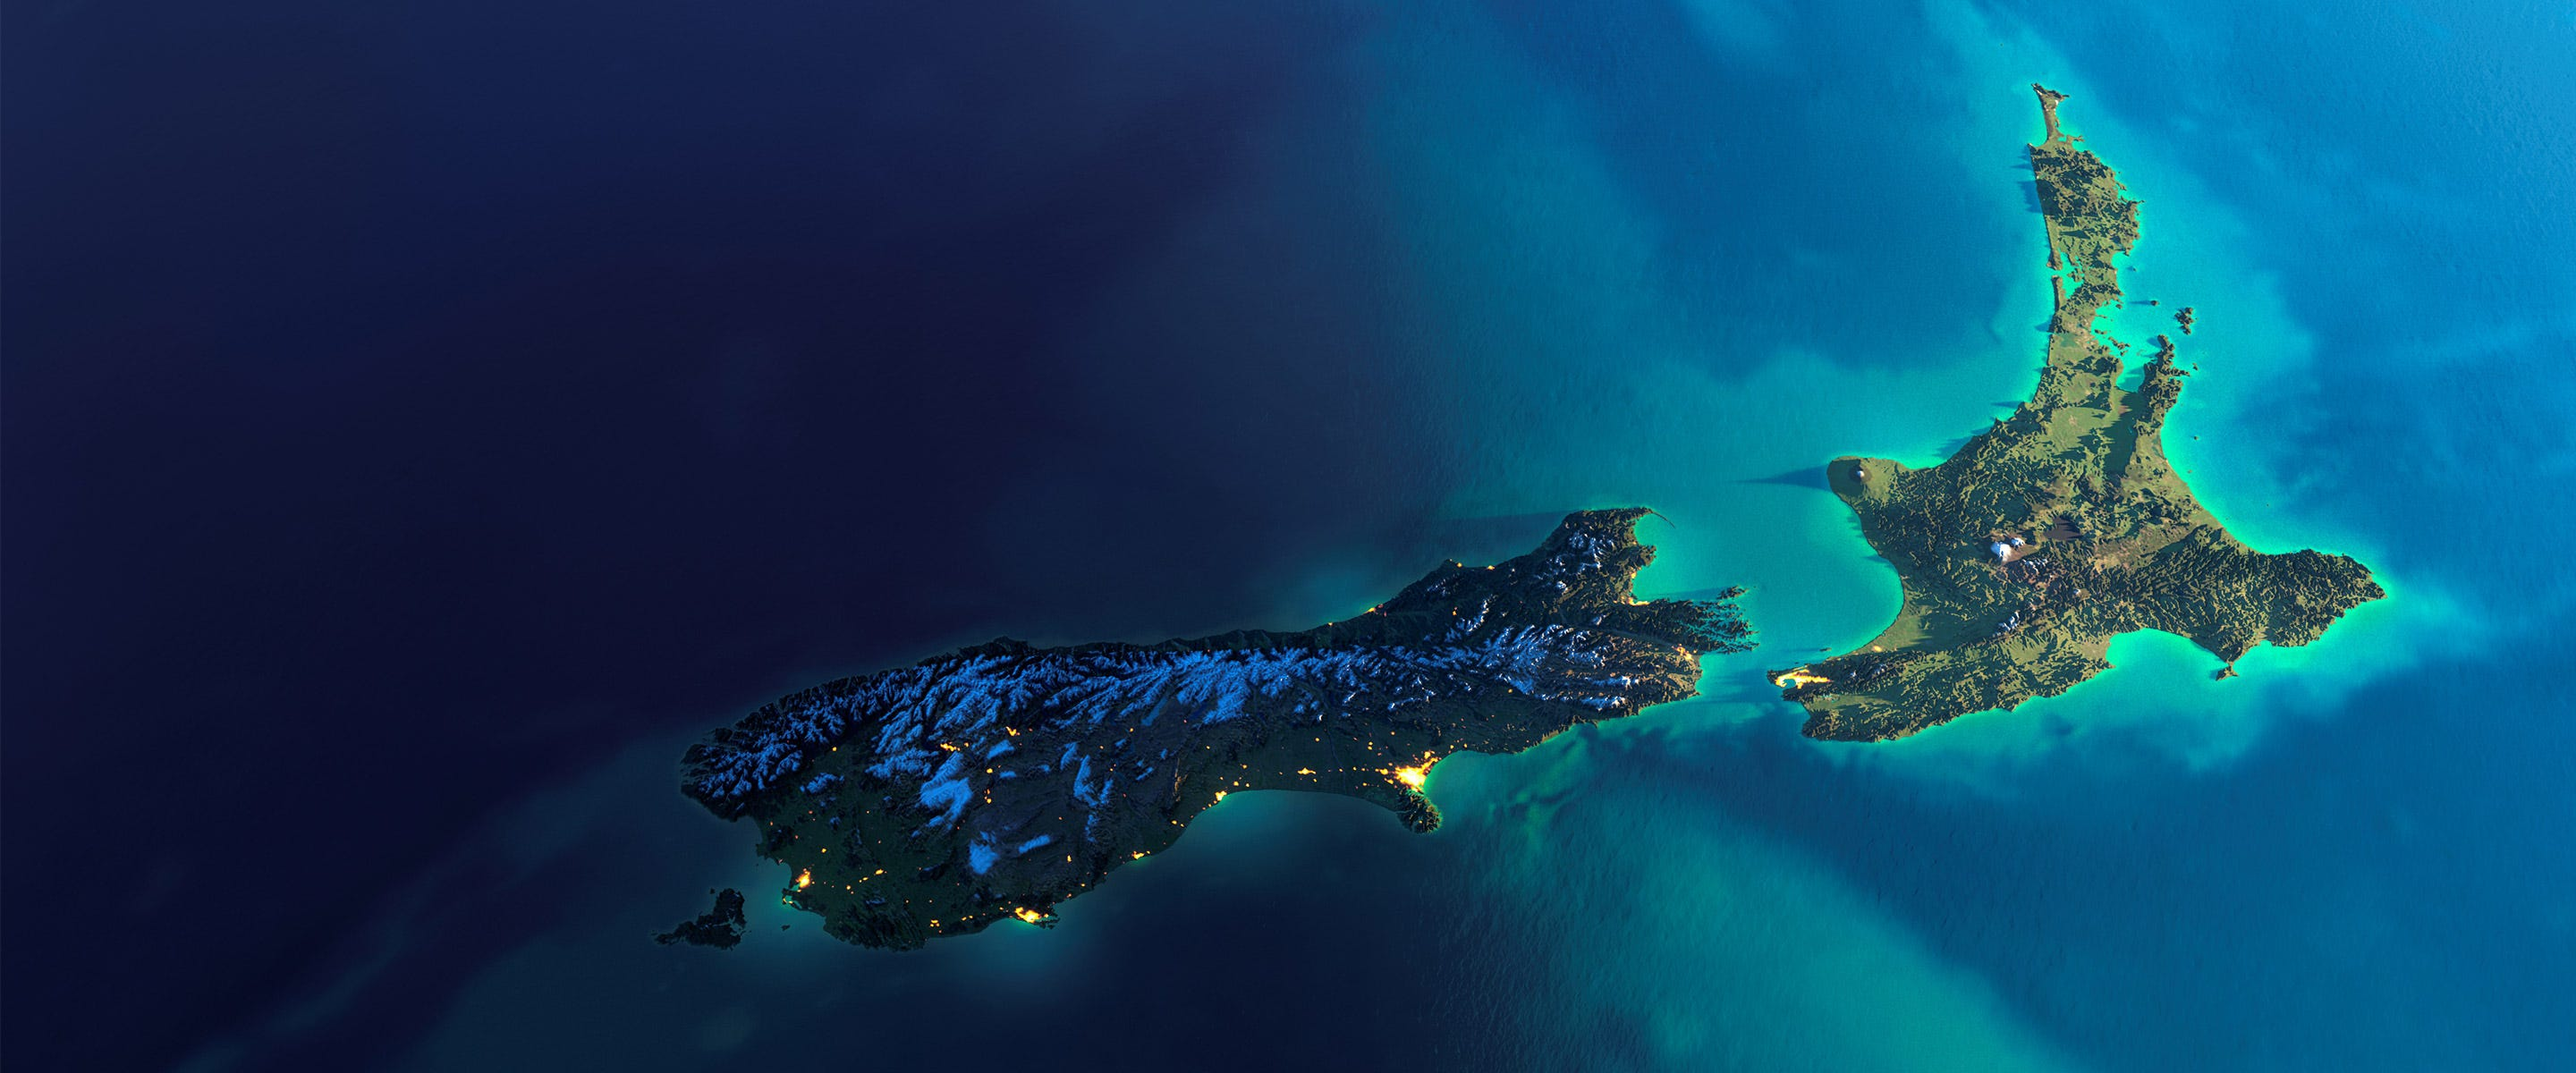
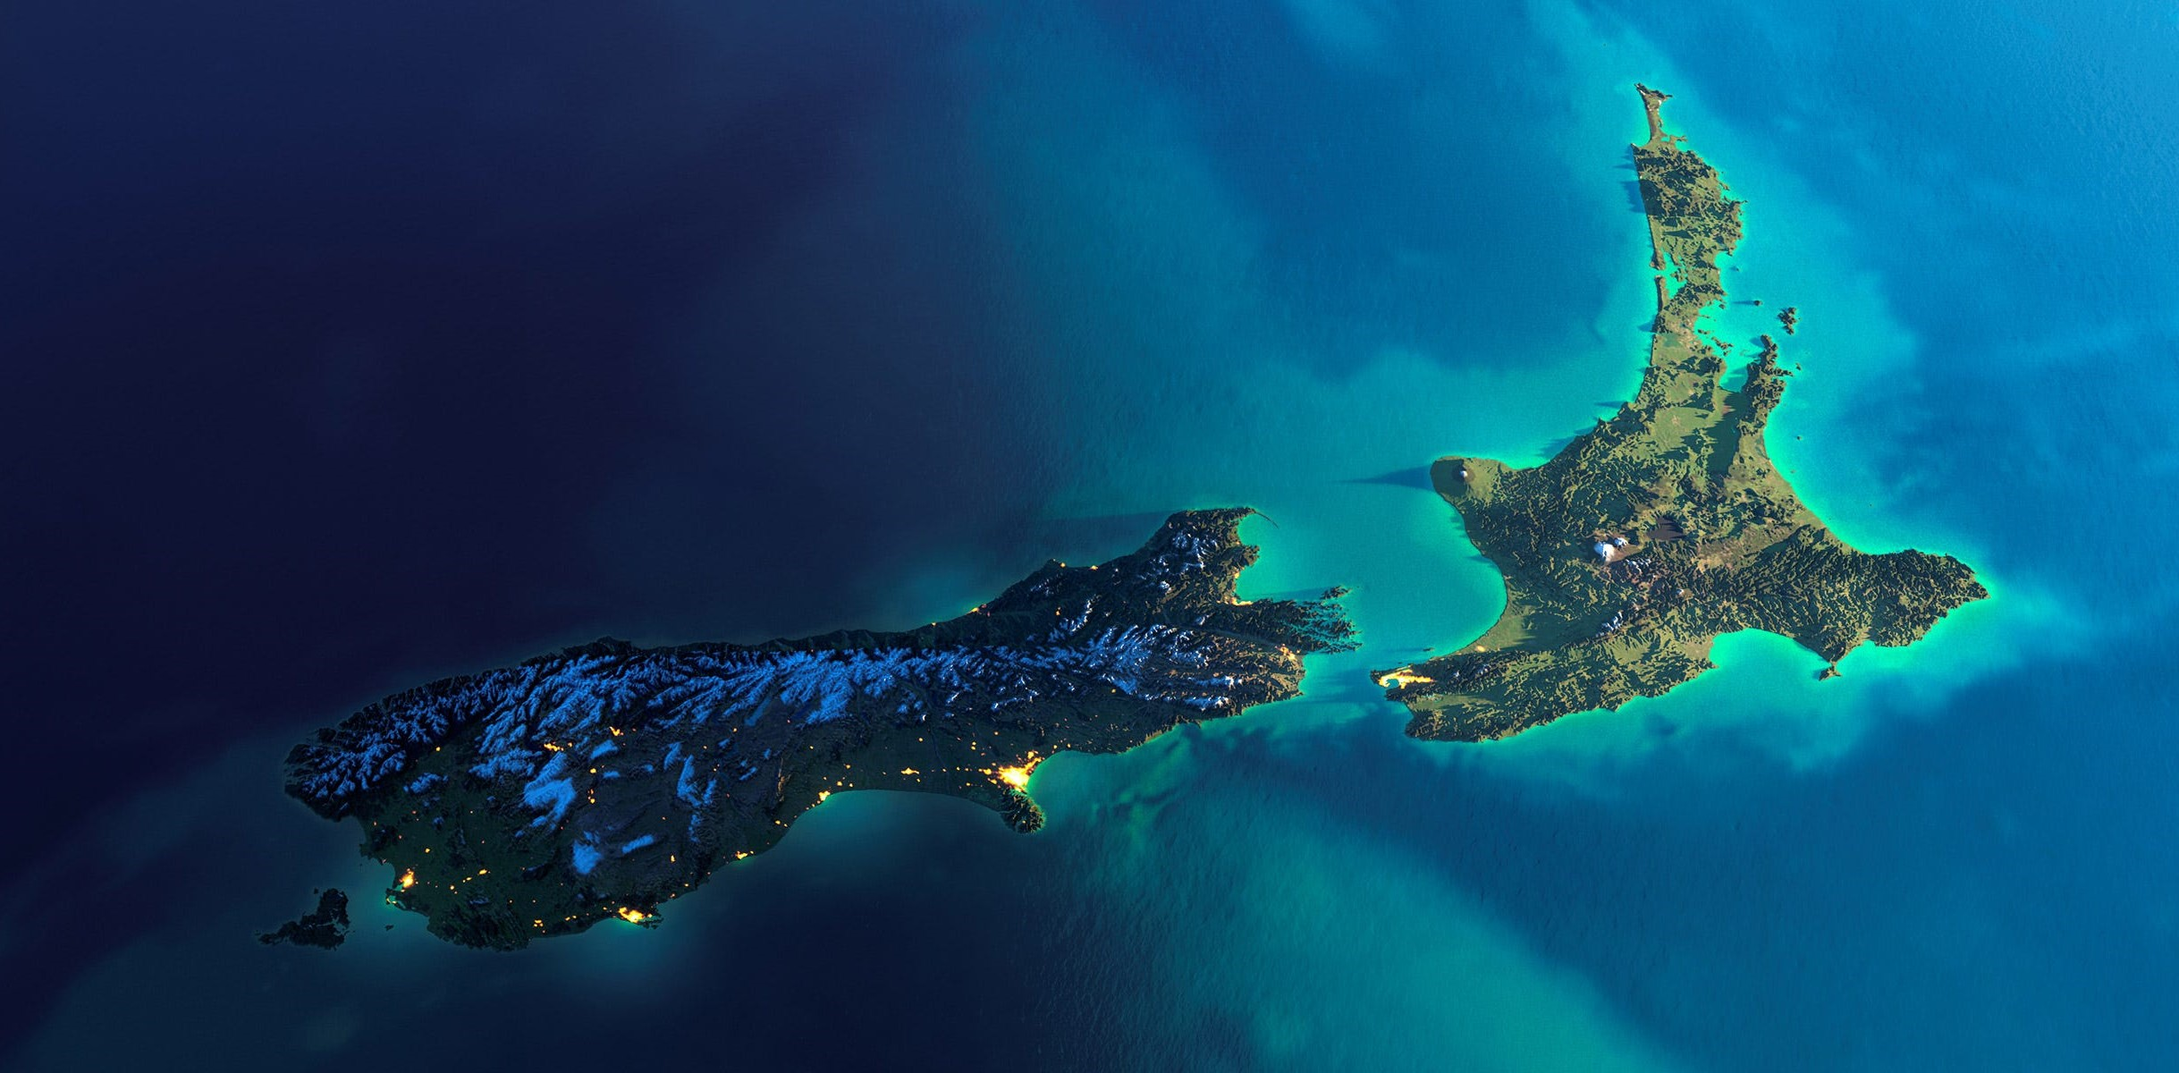
reposition NZ image amd add new path

diff --git a/src/app/nz/nz.module.css b/src/app/nz/nz.module.css
@@ -6,29 +6,31 @@
 }
 
 .path {
-  width: 55vw;
+  width: 60vw;
   position: absolute;
-  top: 55%;
-  left: 55%;
+  top: 50%;
+  left: 47%;
   transform: translate(-50%, -50%);
 }
 
 .start {
   width: 50px;
+  position: absolute;
+  top: 85%;
+  left: 15%;
+  transform: translate(-50%, -50%);
 }
 
 .shuttle {
   width: 50px;
 }
-@media (max-width: 768px) {
-  /* Adjust styles for smaller screens */
-  .path {
-    height: 50%;
-    top: 5%;
-    right: 5%;
-  }
-}
 
 .finish {
   width: 50px;
+}
+
+@media (max-width: 768px) {
+  .path {
+    width: 70vh;
+  }
 }
